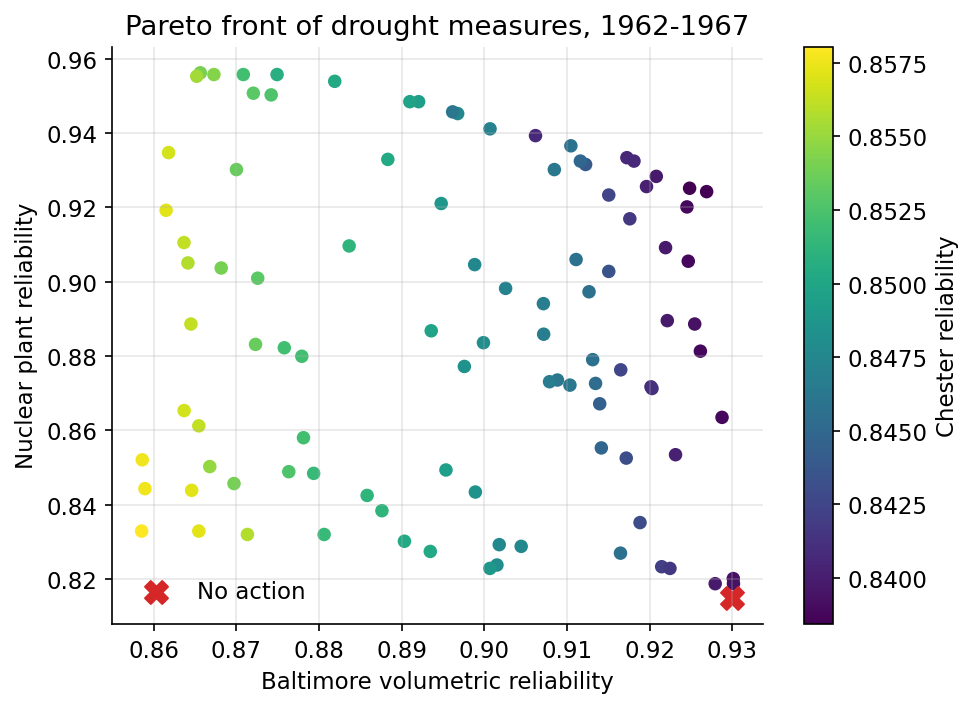
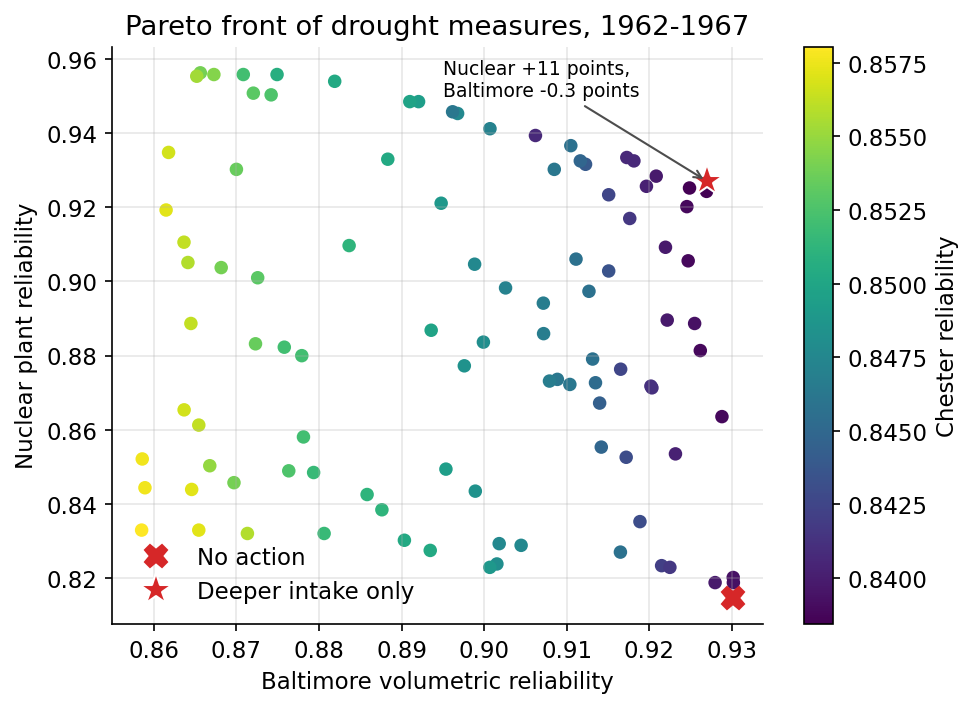
Add RRV table, convergence check, amplified-extremes robustness and key findings

diff --git a/analysis/05_robustness.py b/analysis/05_robustness.py
@@ -1,11 +1,14 @@
-"""Step 5: robustness of four adaptation options across seven drier futures.
+"""Step 5: robustness of four adaptation options across two sets of seven drier futures.
 
 Options:
   L0  current set-up
   L1  nuclear plant intake lowered to the depth of the Baltimore intake
   L2  desalination plant for Baltimore, used whenever the reservoir is not full
   L3  L1 and L2 together
-Futures: inflows cut uniformly by 0, 5, ..., 30%.
+Futures:
+  Uniform             inflows cut uniformly by 0, 5, ..., 30%, as in the course tutorial
+  Amplified Extremes  mean flow cut by 0, 5, ..., 30%, with variability x1.5 and low flows x0.6,
+                      the extreme set-up from step 4
 """
 import copy
 
@@ -20,56 +23,77 @@ _, balance_calcs, performance, base, flows = load_system()
 LEVERS = ["L0 current", "L1 deeper nuclear intake", "L2 desalination", "L3 both"]
 CUTS = np.arange(0, 35, 5)
 ACTORS = ["Baltimore", "Chester", "Nuclear", "Env. flows"]
+FUTURE_SETS = ["Uniform", "Amplified Extremes"]
 
-rows = []
-for cut in CUTS:
-    for lever, name in enumerate(LEVERS):
-        reservoir = copy.deepcopy(base)
+
+def future_flows(kind, cut):
+    if kind == "Uniform":
         balance = flows.copy()
         balance["Total inflows (m3/s)"] *= 1 - cut / 100
-        if lever in (1, 3):
-            reservoir.demand_on_site[2].intake_depth = reservoir.demand_on_site[0].intake_depth
-        if lever in (2, 3):
-            # Baltimore only draws from the reservoir when it is full; desalination covers the rest
-            reservoir.demand_on_site[0].intake_depth = 0.001
-        balance = balance_calcs.sop_full(reservoir, balance)
-        m = performance.all_metrics(reservoir=reservoir, water_balance=balance).set_index("Name")
-        row = {"flow_cut_pct": cut, "lever": name,
-               "hydropower_gwh": reservoir.daily_production(balance).sum() / 70 / 1000}
-        for actor in ACTORS:
-            row[f"{actor}_rel"] = m.loc[actor, "Reliability (0-1)"]
-            row[f"{actor}_failures_per_year"] = m.loc[actor, "Failure count"] / 70
-        rows.append(row)
+        return balance
+    return balance_calcs.amplified_extremes_model(
+        flows_original=flows, model_multipliers=[1 - cut / 100, 1.5, 0.6], low_quantile=1)
+
+
+rows = []
+for kind in FUTURE_SETS:
+    for cut in CUTS:
+        for lever, name in enumerate(LEVERS):
+            reservoir = copy.deepcopy(base)
+            balance = future_flows(kind, cut)
+            if lever in (1, 3):
+                reservoir.demand_on_site[2].intake_depth = reservoir.demand_on_site[0].intake_depth
+            if lever in (2, 3):
+                # Baltimore only draws from the reservoir when it is full; desalination covers the rest
+                reservoir.demand_on_site[0].intake_depth = 0.001
+            balance = balance_calcs.sop_full(reservoir, balance)
+            m = performance.all_metrics(reservoir=reservoir, water_balance=balance).set_index("Name")
+            row = {"futures": kind, "flow_cut_pct": cut, "lever": name,
+                   "hydropower_gwh": reservoir.daily_production(balance).sum() / 70 / 1000}
+            for actor in ACTORS:
+                row[f"{actor}_rel"] = m.loc[actor, "Reliability (0-1)"]
+                row[f"{actor}_failures_per_year"] = m.loc[actor, "Failure count"] / 70
+            rows.append(row)
 
 table = pd.DataFrame(rows)
 RESULTS.mkdir(exist_ok=True)
 table.to_csv(RESULTS / "robustness_runs.csv", index=False)
 
 # Regret: distance to the best option in the same future, then the worst case over all futures
-regret = {}
-for actor in ACTORS:
-    rel = table.pivot(index="flow_cut_pct", columns="lever", values=f"{actor}_rel")[LEVERS]
-    regret[actor] = rel.max(axis=1).values[:, None] - rel
-    regret[actor] = regret[actor].max()
-minimax = pd.DataFrame(regret).round(3)
-minimax.to_csv(RESULTS / "robustness_max_regret.csv")
-print("Maximum regret in reliability over all futures, by option and user\n", minimax.to_string())
+tables = []
+for kind in FUTURE_SETS:
+    sub = table[table["futures"] == kind]
+    regret = {}
+    for actor in ACTORS:
+        rel = sub.pivot(index="flow_cut_pct", columns="lever", values=f"{actor}_rel")[LEVERS]
+        regret[actor] = (rel.max(axis=1).values[:, None] - rel).max()
+    minimax = pd.DataFrame(regret).round(3)
+    minimax.insert(0, "futures", kind)
+    tables.append(minimax)
+    print(f"\nMaximum regret in reliability, {kind} futures\n", minimax.drop(columns="futures").to_string())
+pd.concat(tables).to_csv(RESULTS / "robustness_max_regret.csv")
 
-hp = table.pivot(index="flow_cut_pct", columns="lever", values="hydropower_gwh")[LEVERS]
+worst = table[table["flow_cut_pct"] == CUTS.max()].pivot(index="lever", columns="futures", values="Nuclear_rel")
+print("\nNuclear plant reliability at a 30% cut\n", worst.loc[LEVERS].round(3).to_string())
+hp = table.pivot_table(index="flow_cut_pct", columns=["futures", "lever"], values="hydropower_gwh")
 print("\nHydropower, GWh per year\n", hp.round(0).to_string())
 
-fig, axes = plt.subplots(1, 4, figsize=(14, 3.8), sharex=True)
 colors = ["black", "tab:blue", "tab:orange", "tab:green"]
-for ax, actor in zip(axes, ACTORS):
-    for name, color in zip(LEVERS, colors):
-        sub = table[table["lever"] == name]
-        ax.plot(sub["flow_cut_pct"], sub[f"{actor}_rel"], marker="o", ms=3, color=color, label=name)
-    titles = {"Baltimore": "Baltimore, from reservoir", "Nuclear": "Nuclear plant"}
-    ax.set_title(titles.get(actor, actor))
-    ax.set_xlabel("Flow reduction (%)")
-    ax.yaxis.set_major_formatter(plt.FormatStrFormatter("%.3f"))
-fig.subplots_adjust(wspace=0.3)
-axes[0].set_ylabel("Reliability")
-fig.legend(*axes[0].get_legend_handles_labels(), frameon=False, ncol=4, loc="lower center", bbox_to_anchor=(0.5, -0.1))
-fig.suptitle("Reliability of each user under seven drier futures and four options", y=1.03)
+titles = {"Baltimore": "Baltimore, from reservoir", "Nuclear": "Nuclear plant"}
+fig, axes = plt.subplots(2, 4, figsize=(14, 7), sharex=True, sharey=True)
+for r, kind in enumerate(FUTURE_SETS):
+    sub = table[table["futures"] == kind]
+    for ax, actor in zip(axes[r], ACTORS):
+        for name, color in zip(LEVERS, colors):
+            line = sub[sub["lever"] == name]
+            ax.plot(line["flow_cut_pct"], line[f"{actor}_rel"], marker="o", ms=3, color=color, label=name)
+        if r == 0:
+            ax.set_title(titles.get(actor, actor))
+        if r == 1:
+            ax.set_xlabel("Cut in mean flow (%)")
+    axes[r, 0].set_ylabel(f"{kind} futures\nReliability")
+axes[0, 0].set_ylim(0.70, 1.0)
+fig.legend(*axes[0, 0].get_legend_handles_labels(), frameon=False, ncol=4, loc="lower center",
+           bbox_to_anchor=(0.5, -0.04))
+fig.suptitle("Reliability of each user under four options, uniform and amplified-extremes futures", y=1.0)
 save(fig, "05_robustness.png")

diff --git a/analysis/03_pareto_front.py b/analysis/03_pareto_front.py
@@ -47,12 +47,28 @@ print(f"\nWithout Chester as an objective, {two_obj.sum()} of {len(front)} solut
 for col in OBJECTIVES:
     print(f"{col}: range {front[col].max() - front[col].min():.3f}")
 
+# Convergence check. A hand-made design with no demand reduction and the nuclear intake at its
+# deepest allowed level was evaluated with the course Tutorial 3 model. Its result is saved in
+# results/, because the evaluation function belongs to the course and is not shared here.
+check = pd.read_csv(RESULTS / "pareto_convergence_check.csv").set_index("design")
+no_action = check.loc["no action", ["baltimore_vol_rel", "chester_rel", "nuclear_rel"]].values
+intake_only = check.loc["intake only", ["baltimore_vol_rel", "chester_rel", "nuclear_rel"]].values
+values = front[OBJECTIVES].values
+dominated = ((intake_only >= values).all(axis=1) & (intake_only > values).any(axis=1)).sum()
+print(f"\nNo action: Baltimore {no_action[0]:.3f}, Chester {no_action[1]:.3f}, nuclear {no_action[2]:.3f}")
+print(f"Intake only: Baltimore {intake_only[0]:.3f}, Chester {intake_only[1]:.3f}, nuclear {intake_only[2]:.3f}")
+print(f"The intake-only design dominates {dominated} of the {len(front)} front members")
+
 fig, ax = plt.subplots(figsize=(7, 5))
 sc = ax.scatter(front["baltimore_vol_rel"], front["nuclear_rel"], c=front["chester_rel"], cmap="viridis", s=30)
-ax.scatter([0.930], [0.815], marker="X", s=120, color="tab:red", label="No action")
+ax.plot(no_action[0], no_action[2], "X", ms=11, color="tab:red", ls="none", label="No action")
+ax.plot(intake_only[0], intake_only[2], "*", ms=16, color="tab:red", mec="white", ls="none",
+        label="Deeper intake only")
+ax.annotate("Nuclear +11 points,\nBaltimore -0.3 points", xy=(intake_only[0], intake_only[2]),
+            xytext=(0.895, 0.950), fontsize=9, arrowprops=dict(arrowstyle="->", color="0.3"))
 fig.colorbar(sc, ax=ax, label="Chester reliability")
 ax.set_xlabel("Baltimore volumetric reliability")
 ax.set_ylabel("Nuclear plant reliability")
 ax.set_title("Pareto front of drought measures, 1962-1967")
-ax.legend(frameon=False, loc="lower left")
+ax.legend(frameon=False, loc="lower left", numpoints=1)
 save(fig, "03_pareto_front.png")

diff --git a/analysis/02_drought_storage.py b/analysis/02_drought_storage.py
@@ -13,6 +13,15 @@ RESULTS.mkdir(exist_ok=True)
 metrics.to_csv(RESULTS / "historical_performance.csv", index=False)
 print(metrics.to_string())
 
+# Resilience in the course model is failure events divided by failure days, so 1/resilience is
+# the average length of a failure. Vulnerability is the average worst shortfall of an event.
+rrv = metrics.set_index("Name")[["Reliability (0-1)", "Resilience (-)", "Vulnerability", "Failure count"]].copy()
+rrv["Mean failure length (days)"] = 1 / rrv["Resilience (-)"].astype(float)
+rrv.round(3).to_csv(RESULTS / "historical_rrv.csv")
+print(rrv.round(3).to_string())
+hydropower = reservoir.daily_production(balance).sum() / 70 / 1000
+print(f"Hydropower: {hydropower:,.0f} GWh per year")
+
 storage = balance["Storage (m3)"] / 1e6
 full = reservoir.full_lake_volume / 1e6
 dead = reservoir.dead_storage / 1e6

diff --git a/README.md b/README.md
@@ -1,4 +1,4 @@
-# Conowingo Reservoir: Multi-Objective Operation Under Climate Uncertainty
+# Conowingo Reservoir: Drought Measures and Adaptation Under Climate Uncertainty
 
 How reliable is a water supply reservoir today, which drought measures are worth taking, and
 how much do the answers change if the climate changes? This project follows these questions for
@@ -11,6 +11,18 @@ inflow data from 1932 to 2001 and a daily water balance model of the reservoir.
 **Methods:** daily water balance simulation · reliability, resilience and vulnerability metrics ·
 multi-objective optimisation with NSGA-II · climate scenarios from a flow duration curve model ·
 stress testing · regret-based robustness analysis
+
+## Key findings
+
+- **Timing, not quantity, is the problem.** The river carries 7 times more water than all users need,
+  but the reservoir can store only about 2 days of mean inflow, so summer droughts empty it.
+- **One drought measure is almost free.** A deeper intake raises the nuclear plant's reliability by
+  11 points in the 1960s drought and costs Baltimore only 0.3 points.
+- **The shape of climate change matters more than its size.** More variable flows with lower low
+  flows hurt every user more than a uniform 20% cut, even when the mean flow does not change.
+- **Combining a deeper intake with desalination is the robust option.** It has the lowest regret
+  in both uniform and amplified-extremes futures, but in the harsher futures no option keeps the
+  nuclear plant at today's reliability.
 
 ## 1. The problem is timing, not quantity
 
@@ -26,10 +38,26 @@ bridge these months, and its usable storage is only **209 hm³**.
 ![Storage in the 1960s drought](figures/02_drought_storage.png)
 
 With its standard operating policy the reservoir is full on **93% of days**, but in the 1962-1967
-drought it is drawn down every summer and reaches dead storage in 1964 and 1966. Over the full
-record, the nuclear plant has the lowest reliability of the three water users, **0.974**, against
-0.980 for Chester and 0.994 for Baltimore. Its intake is the shallowest, so it is the first to fail
-when the lake level drops.
+drought it is drawn down every summer and reaches dead storage in 1964 and 1966. The table shows
+the three performance measures over the full 1932-2001 record.
+
+| User | Reliability | Failure events | Mean failure length | Vulnerability |
+|---|---|---|---|---|
+| Baltimore | 0.994 | 8 | 21 days | 100% |
+| Chester | 0.980 | 12 | 42 days | 100% |
+| Nuclear plant | 0.974 | 17 | 39 days | 100% |
+| Environmental flows | 0.998 | 6 | 10 days | 34% |
+| Flood protection | 0.9997 | 4 | 2 days | 36% |
+
+- **Reliability** is the share of days without failure. The nuclear plant has the lowest value
+  because its intake is the shallowest, so it is the first to fail when the lake level drops.
+- **Resilience** shows how fast the system recovers. In the course model it is failure events
+  divided by failure days, so its inverse is the mean failure length shown above. Chester and the
+  nuclear plant stay without water for about six weeks once they fail.
+- **Vulnerability** is the mean worst shortfall of a failure event. For the three water users it is
+  100%, because a failure means the lake is below the intake and the supply stops completely. This
+  is why reliability alone hides how severe these failures are.
+- The reservoir also produces **2,064 GWh** of hydropower per year on average.
 
 ## 3. Which drought measures are worth it?
 
@@ -49,6 +77,12 @@ Baltimore, the reservoir level that triggers it, and a deeper intake for the nuc
 - **The framing matters.** Without Chester as an objective, only 17 of the 100 designs stay
   non-dominated. Most of the front exists because of a 2-point difference, which suggests treating
   Chester as a constraint instead of an objective.
+- **The search did not fully converge.** I evaluated one design by hand with the same model: no
+  demand reduction and the nuclear intake at its deepest allowed level. It gives 0.927 for both
+  Baltimore and the nuclear plant and 0.838 for Chester, shown as a star in the figure, and it
+  dominates 2 of the 100 designs on the front. With 2,000 evaluations NSGA-II found the right
+  region but not the edge of the front, so the front should be read as a good approximation and
+  not as the exact optimum.
 
 ## 4. A changing climate: the extremes matter more than the mean
 
@@ -77,45 +111,65 @@ Amplified Extremes model also cuts the mean by 20%, but makes flows 50% more var
 
 **What this means for decisions:** testing designs against the historical record, or against a
 simple change in the mean, gives false confidence. Designs should be stress-tested across many
-possible futures. That is the next step of this project.
+possible futures, which is what Section 5 does.
 
 ## 5. Which adaptation option is robust?
 
-I tested four options across seven drier futures, with inflows cut by 0 to 30%:
-**L0** keeps the current set-up, **L1** lowers the nuclear plant intake to the depth of the Baltimore
-intake, **L2** adds a desalination plant that supplies Baltimore whenever the reservoir is not full,
-and **L3** combines L1 and L2.
+I tested four options: **L0** keeps the current set-up, **L1** lowers the nuclear plant intake to
+the depth of the Baltimore intake, **L2** adds a desalination plant that supplies Baltimore whenever
+the reservoir is not full, and **L3** combines L1 and L2.
+
+Each option was run in two sets of seven drier futures. In the **uniform** set, as in the course
+tutorial, all inflows are cut by 0 to 30%. Section 4 showed that uniform cuts understate the risk, so
+I added an **amplified-extremes** set: the mean flow is cut by 0 to 30% as before, but flows are also
+50% more variable and low flows 40% lower.
 
 ![Robustness of adaptation options](figures/05_robustness.png)
 
 For each future I measured the regret of each option, which is the reliability lost compared with the
-best option in that same future. The table shows the worst regret over all seven futures.
+best option in that same future. The table shows the worst regret over all seven futures in each set.
 
 | Option | Baltimore, from reservoir | Chester | Nuclear plant | Env. flows |
 |---|---|---|---|---|
+| *Uniform futures* | | | | |
 | L0 current | 0.000 | 0.017 | 0.061 | 0.006 |
 | L1 deeper nuclear intake | 0.001 | 0.017 | 0.013 | 0.006 |
 | L2 desalination | 0.094 | 0.000 | 0.040 | 0.000 |
 | **L3 both** | 0.095 | **0.001** | **0.000** | **0.000** |
+| *Amplified-extremes futures* | | | | |
+| L0 current | 0.000 | 0.025 | 0.101 | 0.014 |
+| L1 deeper nuclear intake | 0.001 | 0.025 | 0.022 | 0.014 |
+| L2 desalination | 0.166 | 0.000 | 0.072 | 0.000 |
+| **L3 both** | 0.166 | **0.001** | **0.000** | **0.001** |
 
-- **L3 is the robust choice.** It has zero or almost zero regret for every user except Baltimore.
+- **L3 is the robust choice in both sets.** It has zero or almost zero regret for every user except
+  Baltimore, so the ranking of the options does not depend on how the futures are built.
+- **The size of the risk does depend on it.** With a 30% cut, the nuclear plant's reliability under
+  L3 is 0.973 in the uniform futures but only 0.902 in the amplified-extremes futures. Doing nothing
+  drops it to 0.801. Regrets are also about twice as large, so choosing the wrong option costs more
+  when the extremes grow.
 - **Baltimore's loss is not a real shortage.** Under L2 and L3, its reliability only counts water
   taken from the reservoir, and desalination supplies the rest by design. The same metric means
   different things for different users, so regret tables need care.
 - **Options help more than one user.** Desalination also raises the nuclear plant's reliability from
   0.974 to 0.982, because the water Baltimore no longer takes stays in the reservoir. The deeper intake
   alone raises it to 0.993, which agrees with the near free improvement found in Section 3.
-- **Hydropower depends on the climate, not on the options.** A 30% flow cut lowers it from 2,064 to
-  1,582 GWh per year, but the options change it by less than 0.2%.
+- **Hydropower depends on the climate, not on the options.** A uniform 30% cut lowers it from 2,064
+  to 1,582 GWh per year, and the amplified-extremes futures lower it further, to 1,832 GWh with no
+  cut in the mean and 1,272 GWh with a 30% cut, because more water arrives in floods that the
+  turbines cannot use. The options change it by less than 0.5%.
 
-**Limits:** these futures only cut flows uniformly, and Section 4 showed that this underestimates the
-risk, so the regrets here are likely optimistic. The analysis also ignores the cost and energy use of
-desalination, and seven futures without probabilities cannot say how likely each outcome is.
+The figure uses the same vertical scale in every panel, so the small changes in environmental flows
+are shown at their true size.
+
+**Limits:** the analysis ignores the cost and energy use of desalination, and seven futures per set
+without probabilities cannot say how likely each outcome is. The amplified-extremes set changes only
+the mean, with the variability and low-flow multipliers fixed.
 
 ## Next step
 
-Repeat the robustness test with Amplified Extremes futures instead of uniform cuts, and use scenario
-discovery to find the conditions under which each option fails.
+Use scenario discovery to vary the mean, variability and low-flow multipliers together and find the
+conditions under which each option fails.
 
 ## Who did what
 
@@ -125,8 +179,9 @@ discovery to find the conditions under which each option fails.
 | Analysis, interpretation and findings | Mine, developed while working through the course tutorials with help from Claude, an AI assistant |
 | Scripts in `analysis/` that rebuild every figure and table | Written by Claude for this repository from my tutorial work; I checked the numbers against my tutorial results |
 | The NSGA-II run in `results/pareto_front_nsga2.csv` | Mine, run with the course optimisation set-up |
+| The convergence check in Section 3 | Hand-made design from my tutorial answers; script by Claude |
 | The scenarios that separate the variability and low-flow effects | Set up and run with Claude, on top of the course climate model |
-| The robustness test in Section 5 | Course set-up of futures and options; script and regret summary by Claude; interpretation reviewed and agreed by me |
+| The robustness test in Section 5 | Course set-up of options and uniform futures; amplified-extremes futures, script and regret summary by Claude; interpretation reviewed and agreed by me |
 
 ### Use of AI
 
